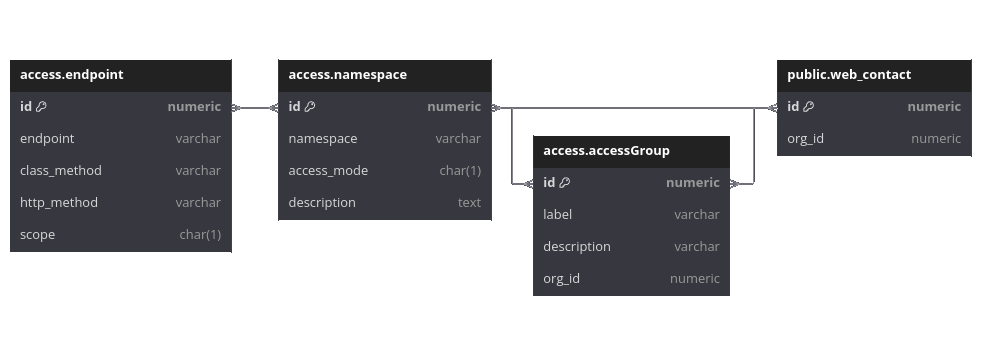
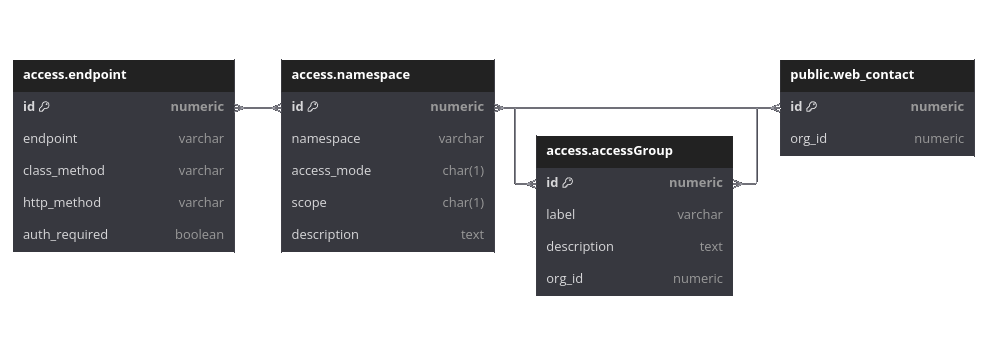
Update ER diagram

diff --git a/accepted/00000-rbac.md b/accepted/00000-rbac.md
@@ -79,8 +79,6 @@ An **endpoint** represents a specific access point that can be called by a clien
 
 - **`http_method`**: The HTTP method (e.g., GET, POST, PUT, DELETE) accepted by the endpoint. If multiple methods are supported, each should be defined as a separate endpoint since they typically serve different purposes.
 
-- **`scope`**: Indicates whether the endpoint is accessible through the web UI (including internal API calls) or the public API.
-
 - **`auth_required`**: Indicates if the endpoint requires authorization.
 
 ### Namespace
@@ -99,7 +97,7 @@ A **namespace** is a logical grouping of endpoints that performs a specific task
 
 - **`description`**: A clear description of what a namespace grants access to.
 
-- **`scope`**: Indicates whether the endpoint is intended for the web UI or the public API.
+- **`scope`**: Indicates whether the endpoint is accessible through the web UI (including internal API calls) or the public API.
 
 #### Organization of namespaces
 
